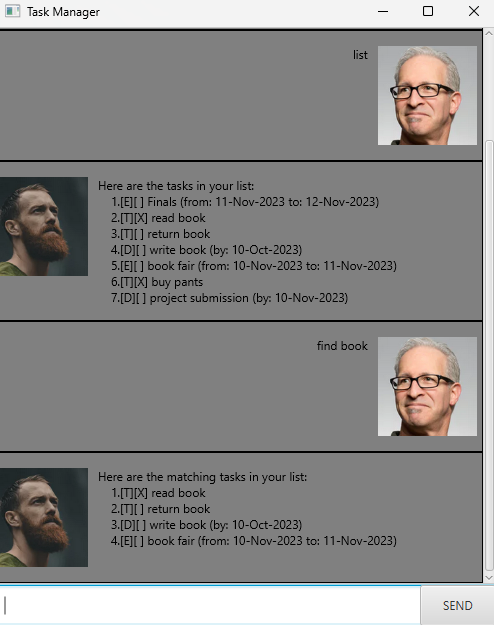
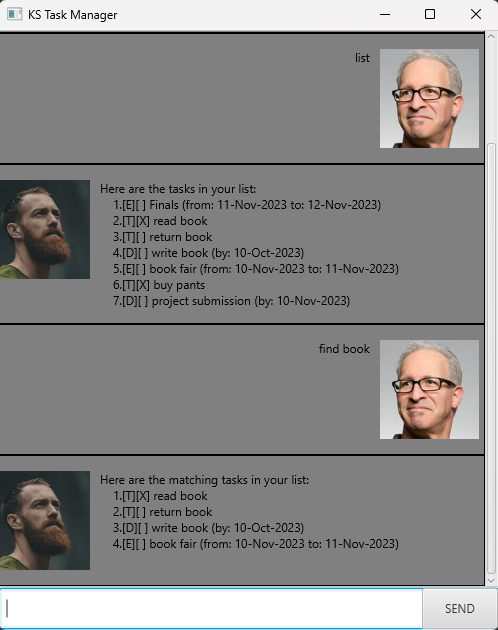
Add user guide

diff --git a/src/main/java/duke/MainWindow.java b/src/main/java/duke/MainWindow.java
@@ -10,7 +10,7 @@ import javafx.scene.layout.VBox;
  * Controller for MainWindow. Provides the layout for the other controls.
  */
 public class MainWindow extends AnchorPane {
-    static final String INITIAL_RESPONSE = "Hello, I'm your task manager :)\nWhat can I do for you?";
+    static final String INITIAL_RESPONSE = "Hello, I'm KS task manager :)\nWhat can I do for you?";
     static final String FINAL_RESPONSE = "Bye. Hope to see you again soon!";
     @FXML
     private ScrollPane scrollPane;

diff --git a/src/main/java/duke/Ui.java b/src/main/java/duke/Ui.java
@@ -12,7 +12,7 @@ public class Ui {
      * Displays a greeting message to the user.
      */
     public static void greet() {
-        System.out.println(LINE + "\nHello, I'm your task manager :)\nWhat can I do for you?\n" + LINE);
+        System.out.println(LINE + "\nHello, I'm KS task manager :)\nWhat can I do for you?\n" + LINE);
     }
 
     /**

diff --git a/src/main/java/duke/Main.java b/src/main/java/duke/Main.java
@@ -21,7 +21,7 @@ public class Main extends Application {
      */
     @Override
     public void start(Stage stage) {
-        stage.setTitle("Task Manager");
+        stage.setTitle("KS Task Manager");
         stage.show();
         try {
             FXMLLoader fxmlLoader = new FXMLLoader(Main.class.getResource("/view/MainWindow.fxml"));

diff --git a/docs/README.md b/docs/README.md
@@ -1,29 +1,219 @@
-# User Guide
+# KS Task Manager User Guide
 
 ## Features 
 
-### Feature-ABC
+### Adding tasks
 
-Description of the feature.
+You can add 3 types of tasks: ToDos, Deadlines and Events.
 
-### Feature-XYZ
+### Marking tasks
 
-Description of the feature.
+You can mark tasks as complete or incomplete.
+
+### Finding tasks
+
+You can find tasks by searching for a keyword.
+
+### Updating and deleting tasks
+
+You can update or delete tasks if you made a mistake.
 
 ## Usage
 
-### `Keyword` - Describe action
+### Adding a ToDo - `todo` 
 
-Describe the action and its outcome.
+Adds a ToDo task to the task list.
 
-Example of usage: 
+Format: `todo <description>`
 
-`keyword (optional arguments)`
+Example of usage:
+
+`todo read book`
 
 Expected outcome:
 
-Description of the outcome.
+A message indicating that the task has been added and the number of tasks in the list.
 
 ```
-expected output
+Got it. I've added this task:
+[T][ ] read book
+Number of tasks: 1
+```
+### Adding a Deadline - `deadline`
+
+Adds a Deadline task to the task list.
+
+Format: `deadline <description> /by <YYYY-MM-DD>`
+
+Example of usage:
+
+`deadline return book /by 2020-09-20`
+
+Expected outcome:
+
+A message indicating that the task has been added and the number of tasks in the list.
+
+```
+Got it. I've added this task:
+[D][ ] return book (by: 20-Sep-2020)
+Number of tasks: 2
+```
+### Adding an Event - `event`
+
+Adds an Event task to the task list.
+
+Format: `event <description> /from <YYYY-MM-DD> /to <YYYY-MM-DD>`
+
+Example of usage:
+
+`event carnival /from 2020-09-20 /to 2020-09-21`
+
+Expected outcome:
+
+A message indicating that the task has been added and the number of tasks in the list.
+
+```
+Got it. I've added this task:
+[E][ ] carnival (from: 20-Sep-2020 to: 21-Sep-2020)
+Number of tasks: 3
+```
+### Listing all tasks - `list`
+
+Lists all tasks in the task list.
+
+Format: `list`
+
+Example of usage:
+
+`list`
+
+Expected outcome:
+
+Shows all tasks in the task list.
+
+```
+Here are the tasks in your list:
+    1.[T][ ] read book
+    2.[D][ ] return book (by: 20-Sep-2020)
+    3.[E][ ] carnival (from: 20-Sep-2020 to: 21-Sep-2020)
+```
+### Marking a task as done - `mark`
+
+Marks a task as done.
+
+Format: `mark <task index>`
+
+Example of usage:
+
+`mark 1`
+
+Expected outcome:
+
+A message indicating that the task has been marked as done.
+
+```
+Nice! I've marked this task as done:
+[T][X] read book
+```
+### Marking a task as not done - `unmark`
+
+Marks a task as not done.
+
+Format: `unmark <task index>`
+
+Example of usage:
+
+`unmark 1`
+
+Expected outcome:
+
+A message indicating that the task has been marked as not done.
+
+```
+OK, I've marked this task as not done yet:
+[T][ ] read book
+```
+### Deleting a task - `delete`
+
+Deletes a task from the task list.
+
+Format: `delete <task index>`
+
+Example of usage:
+
+`delete 1`
+
+Expected outcome:
+
+A message indicating that the task has been deleted and the number of tasks in the list.
+
+```
+Noted. I've removed this task:
+[T][ ] read book
+Number of tasks: 2
+```
+### Finding tasks - `find`
+
+Find tasks by searching for a keyword.
+
+Format: `find <keyword>`
+
+Example of usage:
+
+`find book`
+
+Expected outcome:
+
+Shows all tasks that contain the keyword.
+```
+Here are the matching tasks in your list:
+    1.[D][ ] return book (by: 20-Sep-2020)
+    2.[T][ ] read book
+```
+### Updating tasks - `update`
+
+Updates a task in the task list.
+
+Format: 
+
+`update <task index> /desc <description>`
+
+`update <task index> /by <YYYY-MM-DD>`
+
+`update <task index> /from <YYYY-MM-DD>`
+
+`update <task index> /to <YYYY-MM-DD>`
+
+Example of usage:
+
+`update 2 /from 2023-11-08`
+
+`update 2 /desc fun carnival`
+
+Expected outcome:
+
+Updates the task and shows the updated task.
+```
+OK, I've updated this task:
+[E][ ] carnival (from: 8-Nov-2023 to: 21-Sep-2020)
+```
+```
+OK, I've updated this task:
+[E][ ] fun carnival (from: 8-Nov-2023 to: 21-Sep-2020)
+```
+### Ending the program - `bye`
+
+Ends the program.
+
+Format: `bye`
+
+Example of usage:
+
+`bye`
+
+Expected outcome:
+
+Shows a goodbye message and ends the program.
+```
+Bye. Hope to see you again soon!
 ```
